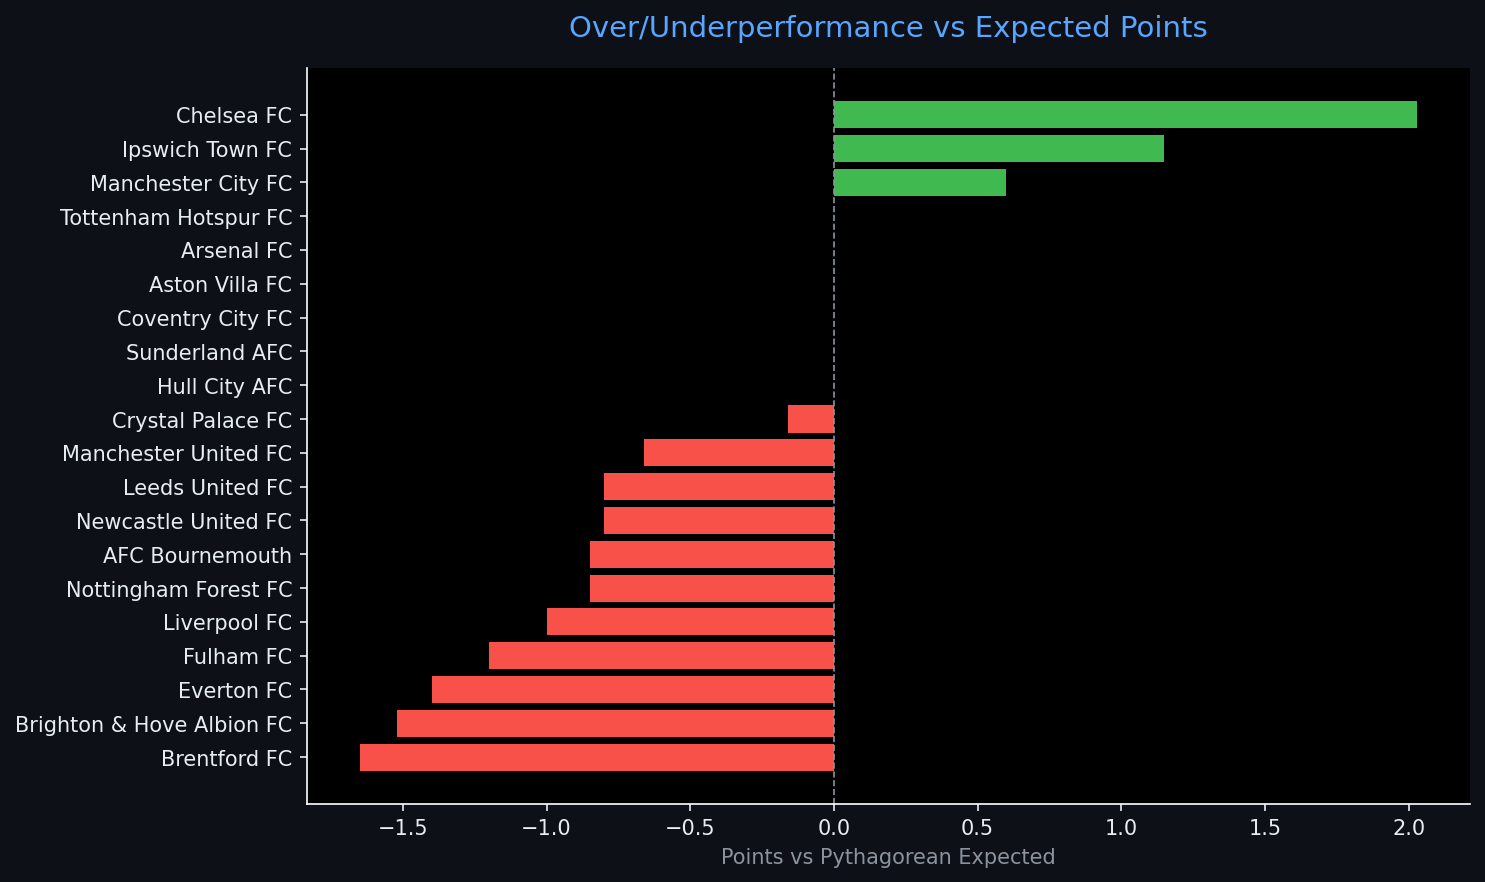
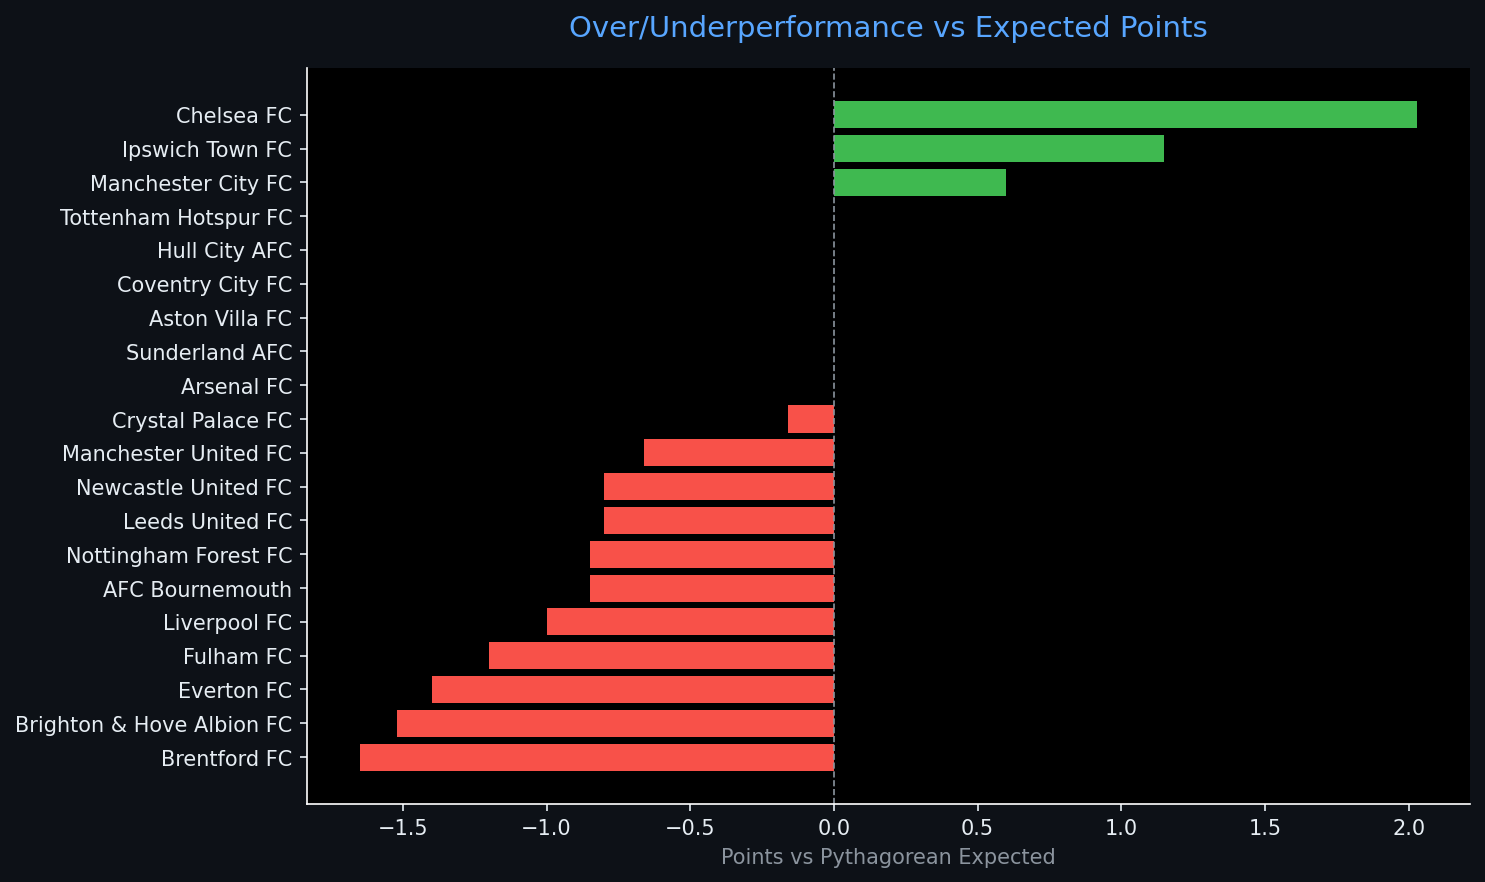
Automated ETL data update: 2026-08-31 23:32

Changed region(s): [[0.031, 0.5204, 0.2168, 0.6735], [0.0929, 0.2755, 0.1859, 0.3673], [0.0929, 0.4286, 0.1859, 0.4592]]

diff --git a/reports/pipeline_report.html b/reports/pipeline_report.html
@@ -4,7 +4,7 @@
 <head>
     <meta charset="UTF-8">
     <meta name="viewport" content="width=device-width, initial-scale=1.0">
-    <title>Sports Data Pipeline Report — 2026-08-31 18:34</title>
+    <title>Sports Data Pipeline Report — 2026-08-31 23:32</title>
     <style>
         body { font-family: 'Segoe UI', sans-serif; background: #0d1117; color: #e6edf3; margin: 0; padding: 2rem; }
         h1   { color: #58a6ff; border-bottom: 1px solid #30363d; padding-bottom: 0.5rem; }
@@ -20,7 +20,7 @@
 </head>
 <body>
     <h1>⚽ Sports Data Pipeline — Automated Report</h1>
-    <p class="meta">Generated: 2026-08-31 18:34 UTC &nbsp;|&nbsp; Sport: <strong>football</strong> &nbsp;|&nbsp; Rows: <strong>20</strong></p>
+    <p class="meta">Generated: 2026-08-31 23:32 UTC &nbsp;|&nbsp; Sport: <strong>football</strong> &nbsp;|&nbsp; Rows: <strong>20</strong></p>
     <span class="badge">Pipeline v1.0.0</span>
     <h2>📊 Data Table</h2>
     <table class="dataframe data-table">
@@ -59,6 +59,21 @@
     </tr>
     <tr>
       <td>2</td>
+      <td>Arsenal FC</td>
+      <td>2</td>
+      <td>6</td>
+      <td>2</td>
+      <td>0</td>
+      <td>0</td>
+      <td>4</td>
+      <td>0</td>
+      <td>1.000</td>
+      <td>3.000</td>
+      <td>1.000</td>
+      <td>NaN</td>
+    </tr>
+    <tr>
+      <td>3</td>
       <td>Hull City AFC</td>
       <td>2</td>
       <td>6</td>
@@ -73,7 +88,7 @@
       <td>NaN</td>
     </tr>
     <tr>
-      <td>3</td>
+      <td>4</td>
       <td>Chelsea FC</td>
       <td>2</td>
       <td>6</td>
@@ -88,7 +103,7 @@
       <td>NaN</td>
     </tr>
     <tr>
-      <td>4</td>
+      <td>5</td>
       <td>Brentford FC</td>
       <td>2</td>
       <td>4</td>
@@ -103,7 +118,7 @@
       <td>NaN</td>
     </tr>
     <tr>
-      <td>5</td>
+      <td>6</td>
       <td>Newcastle United FC</td>
       <td>2</td>
       <td>4</td>
@@ -118,7 +133,7 @@
       <td>NaN</td>
     </tr>
     <tr>
-      <td>6</td>
+      <td>7</td>
       <td>Everton FC</td>
       <td>2</td>
       <td>4</td>
@@ -133,7 +148,7 @@
       <td>NaN</td>
     </tr>
     <tr>
-      <td>7</td>
+      <td>8</td>
       <td>Leeds United FC</td>
       <td>2</td>
       <td>4</td>
@@ -148,7 +163,7 @@
       <td>NaN</td>
     </tr>
     <tr>
-      <td>8</td>
+      <td>9</td>
       <td>Brighton &amp; Hove Albion FC</td>
       <td>2</td>
       <td>3</td>
@@ -160,21 +175,6 @@
       <td>0.500</td>
       <td>1.500</td>
       <td>0.754</td>
-      <td>NaN</td>
-    </tr>
-    <tr>
-      <td>9</td>
-      <td>Arsenal FC</td>
-      <td>1</td>
-      <td>3</td>
-      <td>1</td>
-      <td>0</td>
-      <td>0</td>
-      <td>3</td>
-      <td>0</td>
-      <td>1.000</td>
-      <td>3.000</td>
-      <td>1.000</td>
       <td>NaN</td>
     </tr>
     <tr>
@@ -284,21 +284,6 @@
     </tr>
     <tr>
       <td>17</td>
-      <td>Aston Villa FC</td>
-      <td>1</td>
-      <td>0</td>
-      <td>0</td>
-      <td>0</td>
-      <td>1</td>
-      <td>0</td>
-      <td>4</td>
-      <td>0.000</td>
-      <td>0.000</td>
-      <td>0.000</td>
-      <td>NaN</td>
-    </tr>
-    <tr>
-      <td>17</td>
       <td>Coventry City FC</td>
       <td>2</td>
       <td>0</td>
@@ -313,7 +298,7 @@
       <td>NaN</td>
     </tr>
     <tr>
-      <td>19</td>
+      <td>18</td>
       <td>Crystal Palace FC</td>
       <td>2</td>
       <td>0</td>
@@ -328,7 +313,22 @@
       <td>NaN</td>
     </tr>
     <tr>
-      <td>20</td>
+      <td>19</td>
+      <td>Aston Villa FC</td>
+      <td>2</td>
+      <td>0</td>
+      <td>0</td>
+      <td>0</td>
+      <td>2</td>
+      <td>0</td>
+      <td>5</td>
+      <td>0.000</td>
+      <td>0.000</td>
+      <td>0.000</td>
+      <td>NaN</td>
+    </tr>
+    <tr>
+      <td>19</td>
       <td>Tottenham Hotspur FC</td>
       <td>2</td>
       <td>0</td>
@@ -362,7 +362,7 @@
         
         <tr><td>Null Values</td><td>92</td></tr>
         
-        <tr><td>Run Timestamp (UTC)</td><td>2026-08-31T18:34:00.604823</td></tr>
+        <tr><td>Run Timestamp (UTC)</td><td>2026-08-31T23:32:44.858704</td></tr>
         
         <tr><td>ML Features Ready</td><td>False</td></tr>
         
